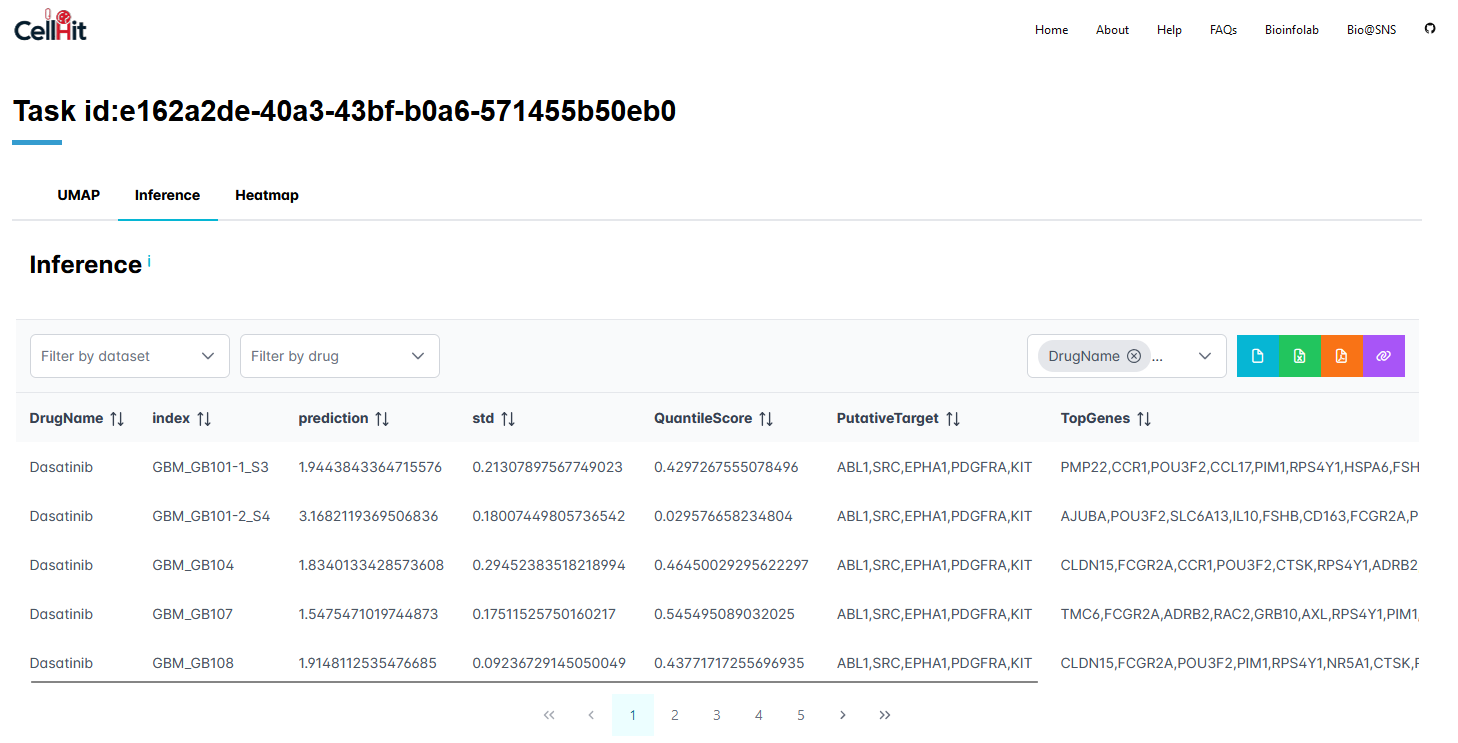
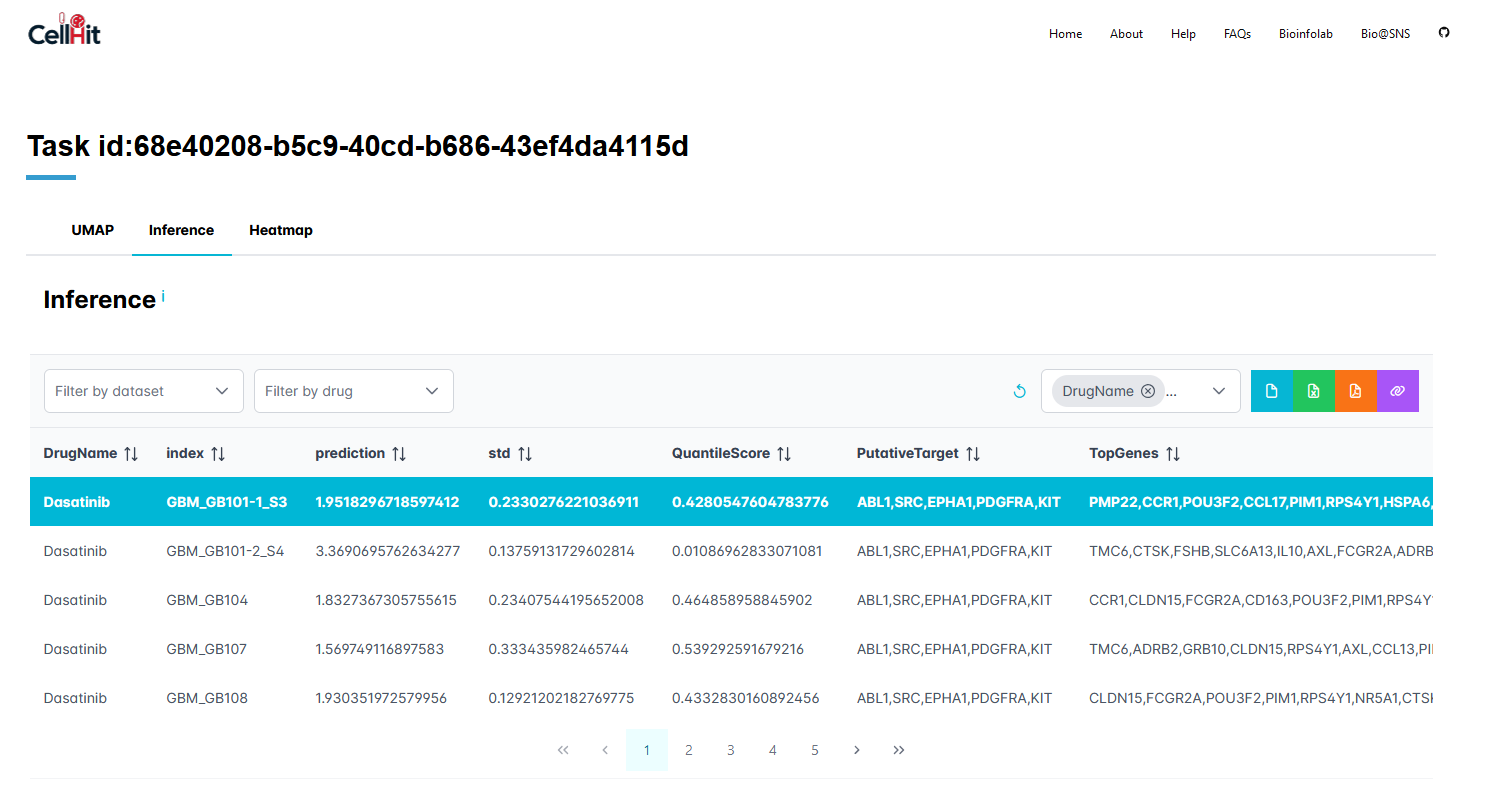
SHAP PLOT

diff --git a/frontend/src/pages/ResultPageAnalysis/ResultPageAnalysis.js b/frontend/src/pages/ResultPageAnalysis/ResultPageAnalysis.js
@@ -4,6 +4,7 @@ import Header from '../../components/Header/Header';
 import Footer from '../../components/Footer/Footer';
 import ScatterPlot from '../../components/ScatterPlot/ScatterPlot';
 import InferenceTable from '../../components/InferenceTable/InferenceTable';
+import BarPlot from '../../components/BarPlot/BarPlot';
 import HeatMap from '../../components/HeatMap/HeatMap';
 import { Helmet } from 'react-helmet';
 import { Card } from 'primereact/card';
@@ -132,10 +133,24 @@ useEffect(() => {
   // Dialog settings
   const [position, setPosition] = useState('center');
   const [visible, setVisible] = useState(false);
+  const [positionIn, setPositionIn] = useState('center');
+  const [visibleIn, setVisibleIn] = useState(false);
+  const [positionHeat, setPositionHeat] = useState('center');
+  const [visibleHeat, setVisibleHeat] = useState(false);
 
   const show = (position) => {
     setPosition(position);
     setVisible(true);
+  };
+
+  const showIn = (positionIn) => {
+    setPositionIn(positionIn);
+    setVisibleIn(true);
+  };
+
+  const showHeat = (positionHeat) => {
+    setPositionHeat(positionHeat);
+    setVisibleHeat(true);
   };
 
 // Control Calls
@@ -144,6 +159,7 @@ const [callNumberHeatmap, setCallNumberHeatmap] = useState(1);
 const [activeTabIndex, setActiveTabIndex] = useState(0);
 const [tableLoadData, setTableLoadData] = useState(false);
 const [heatmapLoadData, setHeatmapLoadData] = useState(false);
+const [shapData, setShapData] = useState();
 
 const handleColorBy = (e) => {
     let value = e.target.value;
@@ -245,17 +261,34 @@ useEffect(() => {
          <h1 className="display-5 fw-bold line mb-4">Task id:{task}</h1>
 
           {/* Help message */}
-          <Dialog header="CellHit" visible={visible} position={position} style={{ width: '50vw' }} onHide={() => setVisible(false)}
+          <Dialog header="UMAP" visible={visible} position={position} style={{ width: '50vw' }} onHide={() => setVisible(false)}
             draggable={false} resizable={false} breakpoints={{ '960px': '75vw', '641px': '100vw' }}>
             <p className="m-0 mb-1 text-justify">
-              We trained explainable machine learning algorithms by employing cell
-              line transcriptomics to predict the growth inhibitory potential of drugs. We used large
-              language models (LLMs) to expand descriptions of the mechanisms of action (MOA) for
-              each drug starting from available annotations, which were matched to the semantically
-              closest pathways from reference knowledge bases.
+              UMAP 2D projection of Celligner alignment coloured by oncotree or tissue. Users can see the UMAP plot with colours representing the oncotree code or tissue name by selecting it in the "colour by" options field.
             </p>
             <p className="m-0 mb-1 text-justify">For more information, please refer to the
-              <Link className="" to="/about/" target="_blank"><b> about</b></Link> page.
+              <Link className="" to="/help/" target="_blank"><b> help</b></Link> page.
+            </p>
+          </Dialog>
+          {/* Help message */}
+          <Dialog header="Table" visible={visibleIn} position={positionIn} style={{ width: '50vw' }} onHide={() => setVisibleIn(false)}
+            draggable={false} resizable={false} breakpoints={{ '960px': '75vw', '641px': '100vw' }}>
+            <p className="m-0 mb-1 text-justify">
+              The inference table displays the results from the CelHit pipeline for each sample. Users can filter the results by drugs or datasets. Furthermore, users can select the columns to visualize, export the data in various formats, and copy the URL of the results to share them.
+              Besides, Users can click on a specific row to view the SHAP plot, which illustrates the importance of the top genes. The selected row will be highlighted with a blue background. To reset the selection and hide the SHAP plot, click the button featuring a replay icon.
+            </p>
+            <p className="m-0 mb-1 text-justify">For more information, please refer to the
+              <Link className="" to="/help/" target="_blank"><b> help</b></Link> page.
+            </p>
+          </Dialog>
+          {/* Help message */}
+          <Dialog header="Heatmap" visible={visibleHeat} position={positionHeat} style={{ width: '50vw' }} onHide={() => setVisibleHeat(false)}
+            draggable={false} resizable={false} breakpoints={{ '960px': '75vw', '641px': '100vw' }}>
+            <p className="m-0 mb-1 text-justify">
+              Heatmap of CellHit predictions of GDSC/PRISM drugs (columns) for each sample (rows). Cells contain the predicted lnIC50 values normalized by median subtraction.
+            </p>
+            <p className="m-0 mb-1 text-justify">For more information, please refer to the
+              <Link className="" to="/help/" target="_blank"><b> help</b></Link> page.
             </p>
           </Dialog>
         </div>
@@ -287,24 +320,31 @@ useEffect(() => {
                 </TabPanel>
                 <TabPanel header="Inference">
                    <h4 className="display-6 fw-bold mb-5">Inference<sup><Button icon="pi pi-info"
-                   onClick={() => show('top-right')} text size="small" className="btn-dialog" /></sup></h4>
+                   onClick={() => showIn('top-right')} text size="small" className="btn-dialog" /></sup></h4>
                     { tableLoadData &&  (
-                         <div className="row mb-4">
+                         <div className="row mb-5">
                             <ProgressSpinner style={{width: '50px', height: '50px'}}
                             strokeWidth="8" fill="var(--surface-ground)" animationDuration=".5s" />
                          </div>
                     )}
                     { !tableLoadData &&  (
-                       <div className="row">
+                       <div className="row mb-4">
                         <div className="col-12 nopadding">
-                          <InferenceTable inferenceData={inferenceData}/>
+                          <InferenceTable inferenceData={inferenceData}  setShapData={setShapData} />
                          </div>
                        </div>
+                     )}
+                     { (!tableLoadData && shapData) && (
+                        <div className="row">
+                         <div className="col-4 nopadding">
+                            <BarPlot jsonData={shapData}/>
+                          </div>
+                        </div>
                      )}
                 </TabPanel>
                 <TabPanel header="Heatmap">
                    <h4 className="display-6 fw-bold mb-5">Heatmap<sup><Button icon="pi pi-info"
-                   onClick={() => show('top-right')} text size="small" className="btn-dialog" /></sup></h4>
+                   onClick={() => showHeat('top-right')} text size="small" className="btn-dialog" /></sup></h4>
                     { heatmapLoadData &&  (
                          <div className="row mb-4">
                             <ProgressSpinner style={{width: '50px', height: '50px'}}

diff --git a/frontend/src/pages/HelpPage/HelpPage.js b/frontend/src/pages/HelpPage/HelpPage.js
@@ -5,6 +5,12 @@ import { Helmet } from 'react-helmet';
 import { Link } from 'react-router-dom';
 
 const HelpPage = () => {
+
+const handleDownload = () => {
+        const downloadUrl = 'https://api.cellhit.bioinfolab.sns.it/api/download/GBM.csv';
+        window.open(downloadUrl, '_blank');
+};
+
   return (
     <>
       <Helmet>
@@ -25,6 +31,20 @@ const HelpPage = () => {
                 Additionally, the web server allows users to explore pre-computed predictions and outputs for the entire TCGA dataset.
                 For more information, please refer to the <Link className="" to="/about/" target="_blank" rel="noopener noreferrer"><b><i> about</i></b></Link> page.
               </p>
+            <h5 className="display-6 fw-bold mb-4">Run CellHit</h5>
+            <p className="fs-1 text-justify mb-2">To run CellHit on your data, you must upload a transcriptomic dataset of your choice.
+            Begin by clicking the "Upload Dataset" button to be directed to the upload window. Then,
+            select the drugs dataset by choosing either GDSC or PRISM. Finally, click the submit button to complete the process.
+            </p>
+             <p className="fs-1 text-justify ">To properly process the input file, it must adhere to the following specific structure:</p>
+             <ol>
+              <li className="fs-1 text-justify">The file must include a column labelled "GENE," which contains gene names.</li>
+              <li className="fs-1 text-justify">Each sample should have its corresponding column with numeric values representing the transcriptomic data for each gene. Sample names should be unique and clearly labelled (e.g., GB101-1_S3, GB101-2_S4).</li>
+              <li className="fs-1 text-justify">Include a column titled "TCGA_CODE" to specify the cancer type associated with each sample in that row (for example, "GBM" for Glioblastoma Multiforme).</li>
+              <li className="fs-1 text-justify">Add a column labelled "TISSUE" to indicate the tissue type for each sample in that row (for example, "CNS/Brain").</li>
+            </ol>
+            <p className="fs-1 m-0 mb-4 text-justify"> Please click <b><Link onClick={handleDownload}>here</Link></b> for an example input file.
+            </p>
               <h5 className="display-6 fw-bold mb-4">UMAP</h5>
               <p className="fs-1 text-justify mb-4">
                 UMAP 2D projection of Celligner alignment coloured by oncotree or tissue. Users can see the UMAP plot with colours representing the oncotree code or tissue name by selecting it in the "colour by" options field.
@@ -59,13 +79,41 @@ const HelpPage = () => {
               </p>
               <img
                       tabIndex="1"
-                      src="/assets/images/table.png"
+                      src="/assets/images/tablei.png"
                       data-toggle="tooltip"
                       data-placement="top"
                       title="Click to zoom-in"
                       alt="Learning Workflow"
                       className="center-help shrink img-fluid mb-5"
                     />
+               <p className="fs-1 text-justify mb-4">
+                Users can click on a specific row to view the SHAP plot, which illustrates the importance of the top genes. The selected row will be highlighted with a blue background. To reset the selection and hide the SHAP plot, click the button featuring a replay icon.
+              </p>
+                <div className="row">
+                <div className="col-md-6 text-center">
+                  <img
+                    tabIndex="1"
+                    src="/assets/images/table.png"
+                    data-toggle="tooltip"
+                    data-placement="top"
+                    title="Click to zoom-in"
+                    alt="Learning Workflow"
+                    className="shrink img-fluid mb-5"
+                  />
+                </div>
+                <div className="col-md-6 text-center">
+                   <img
+                      tabIndex="1"
+                      src="/assets/images/gene_importance.png"
+                      data-toggle="tooltip"
+                      data-placement="top"
+                      title="Click to zoom-in"
+                      alt="Learning Workflow"
+                      className="shrink img-fluid mb-5"
+                    />
+
+                </div>
+              </div>
                <h5 className="display-6 fw-bold mb-4">Heatmap</h5>
               <p className="fs-1 text-justify mb-4">
                 Heatmap of CellHit predictions of GDSC/PRISM drugs (columns) for each sample (rows). Cells contain the predicted lnIC50 values normalized by median subtraction.

diff --git a/frontend/src/components/InferenceTable/InferenceTable.jsx b/frontend/src/components/InferenceTable/InferenceTable.jsx
@@ -7,9 +7,9 @@ import { FilterMatchMode, FilterOperator } from 'primereact/api';
 import { MultiSelect } from 'primereact/multiselect';
 import { IconField } from 'primereact/iconfield';
 import { InputIcon } from 'primereact/inputicon';
+import 'primeicons/primeicons.css';
 
-
-const InferenceTable = ({ inferenceData }) => {
+const InferenceTable = ({ inferenceData, setShapData }) => {
 
   const handleClick = () => {
     navigator.clipboard.writeText(window.location.href);
@@ -39,6 +39,7 @@ const InferenceTable = ({ inferenceData }) => {
  const [selectedDatasets, setSelectedDatasets] = useState([]);
  const [selectedDrugs, setSelectedDrugs] = useState([]);
  const [selectedColumns, setSelectedColumns] = useState(columnsDefault);
+ const [selectedRow, setSelectedRow] = useState(null);
 
  const datasets = [
         { label: 'GDSC', value: 'GDSC' },
@@ -47,9 +48,11 @@ const InferenceTable = ({ inferenceData }) => {
 
     // Extract unique drugs
     const uniqueDrugs = [
-    ...new Set(inferenceData.map(inference => inference.DrugName?.trim()))
-    ].filter(drug => drug) // Remove any undefined/null values
-    .map(drug => ({ label: drug, value: drug }));
+      ...new Set(inferenceData.map((inference) => inference.DrugName?.trim()))
+    ]
+      .filter((drug) => drug) // Remove any undefined/null values
+      .map((drug) => ({ label: drug, value: drug }))
+      .sort((a, b) => a.label.localeCompare(b.label)); // Sort by the label property
 
 
    const onColumnToggle = (event) => {
@@ -80,6 +83,21 @@ const InferenceTable = ({ inferenceData }) => {
   const dynamicColumns = visibleColumns.map((col) => {
     return <Column key={col.field} field={col.field} header={col.header} sortable />;
  });
+
+ const onRowClick = (e) => {
+    const clickedRowData = e.data;
+    console.log(clickedRowData.ShapDictionary)
+    if (clickedRowData && clickedRowData.ShapDictionary) {
+      setShapData(clickedRowData.ShapDictionary);
+    }
+
+    // Update the selected row
+    setSelectedRow(clickedRowData);
+  };
+
+ const getRowClass = (rowData) => {
+    return rowData === selectedRow ? 'highlighted-row' : '';
+  };
 
 const exportCSV = (tableRef, selectionOnly) => {
         tableRef.current.exportCSV({ selectionOnly });
@@ -139,6 +157,11 @@ const exportCSV = (tableRef, selectionOnly) => {
         setFilters(_filters);
     };
 
+    const handleResetData = (event) => {
+        setSelectedRow([]);
+        setShapData();
+    };
+
   const header = (
   <div className="row align-items-center">
       <div className="col">
@@ -176,6 +199,7 @@ const exportCSV = (tableRef, selectionOnly) => {
             </div>
       </div>
       <div className="col" style={{ display: 'flex', alignItems: 'center', justifyContent: 'flex-end' }}>
+                    <Button type="button" icon="pi pi-replay" text className="p-button-rounded p-mr-2"  onClick={handleResetData} tooltip="Unselect row"/>
           <MultiSelect
                 value={visibleColumns.map(col => col.field)}
                 options={multiSelectOptions}
@@ -197,8 +221,8 @@ const exportCSV = (tableRef, selectionOnly) => {
 return (
 <>
  <DataTable ref={dt} value={filteredData} paginator rows={5}  emptyMessage="No inference found."
- removableSort header={header} filters={filters}   removableSort
- onFilter={(e) => setFilters(e.filters)} tableStyle={{ minWidth: '50rem' }}>
+ removableSort header={header} filters={filters}   removableSort  rowClassName={getRowClass}
+ onFilter={(e) => setFilters(e.filters)} tableStyle={{ minWidth: '50rem' }}  onRowClick={onRowClick}>
           {dynamicColumns}
   </DataTable>
 </>

diff --git a/frontend/src/components/BarPlot/BarPlot.jsx b/frontend/src/components/BarPlot/BarPlot.jsx
@@ -1,0 +1,88 @@
+import React, { useMemo } from 'react';
+import Plot from 'react-plotly.js';
+
+const BarPlot = ({ jsonData }) => {
+
+  // Process the jsonData to separate positive and negative values
+  const processedData = useMemo(() => {
+    const geneUp = [];
+    const valuesUp = [];
+    const geneDown = [];
+    const valuesDown = [];
+
+    for (const [key, value] of Object.entries(jsonData)) {
+      if (value > 0) {
+        geneUp.push({ gene: key, value });
+      } else {
+        geneDown.push({ gene: key, value });
+      }
+    }
+
+    geneUp.sort((a, b) => a.gene.localeCompare(b.gene)).reverse();
+    geneDown.sort((a, b) => a.gene.localeCompare(b.gene)).reverse();
+
+    return {
+      geneUp: geneUp.map(item => item.gene),
+      valuesUp: geneUp.map(item => item.value),
+      geneDown: geneDown.map(item => item.gene),
+      valuesDown: geneDown.map(item => item.value),
+    };
+  }, [jsonData]);
+
+  const layout = {
+    showlegend: false,
+    autosize: true,
+    title: { text: 'Gene Importance' },
+    xaxis: {
+      automargin: true,
+      title: { text: 'SHAP Value' },
+    },
+    yaxis: {
+      automargin: true,
+      title: { text: 'Genes' },
+    },
+    font: {
+      size: 9,
+      color: '#000000',
+    },
+    barmode: 'relative',
+  };
+
+  const data = [
+    {
+      type: 'bar',
+      orientation: "h",
+      x: processedData.valuesUp,
+      y: processedData.geneUp,
+      base: 0,
+      marker: {
+        color: '#BC3D41',
+      },
+      name: 'SHAP Values',
+    },
+    {
+      type: 'bar',
+      orientation: "h",
+      x: processedData.valuesDown,
+      y: processedData.geneDown,
+      base: 0,
+      marker: {
+        color: '#4F7EBB',
+      },
+      name: 'SHAP Values',
+    },
+  ];
+
+  return (
+    <>
+      <Plot
+        data={data}
+        useResizeHandler={true}
+        style={{ width: '100%', height: '100%' }}
+        layout={layout}
+      />
+    </>
+  );
+};
+
+export default BarPlot;

diff --git a/frontend/src/index.css b/frontend/src/index.css
@@ -19041,6 +19041,10 @@ box-shadow: none !important;
     font-weight: 400 !important;
 }
 
+.p-button {
+   outline: none !important;
+}
+
 .gdsc-border {
    border-radius: 3px 0px 0px 3px !important;
 }
@@ -19066,3 +19070,14 @@ input:checked {
   opacity: 0.5;
   pointer-events: none;
 }
+
+td {
+  cursor: pointer;
+}
+
+.highlighted-row{
+ background-color: #00b7d6 !important;
+ font-weight: bold;
+ color: #fff;
+}
+
